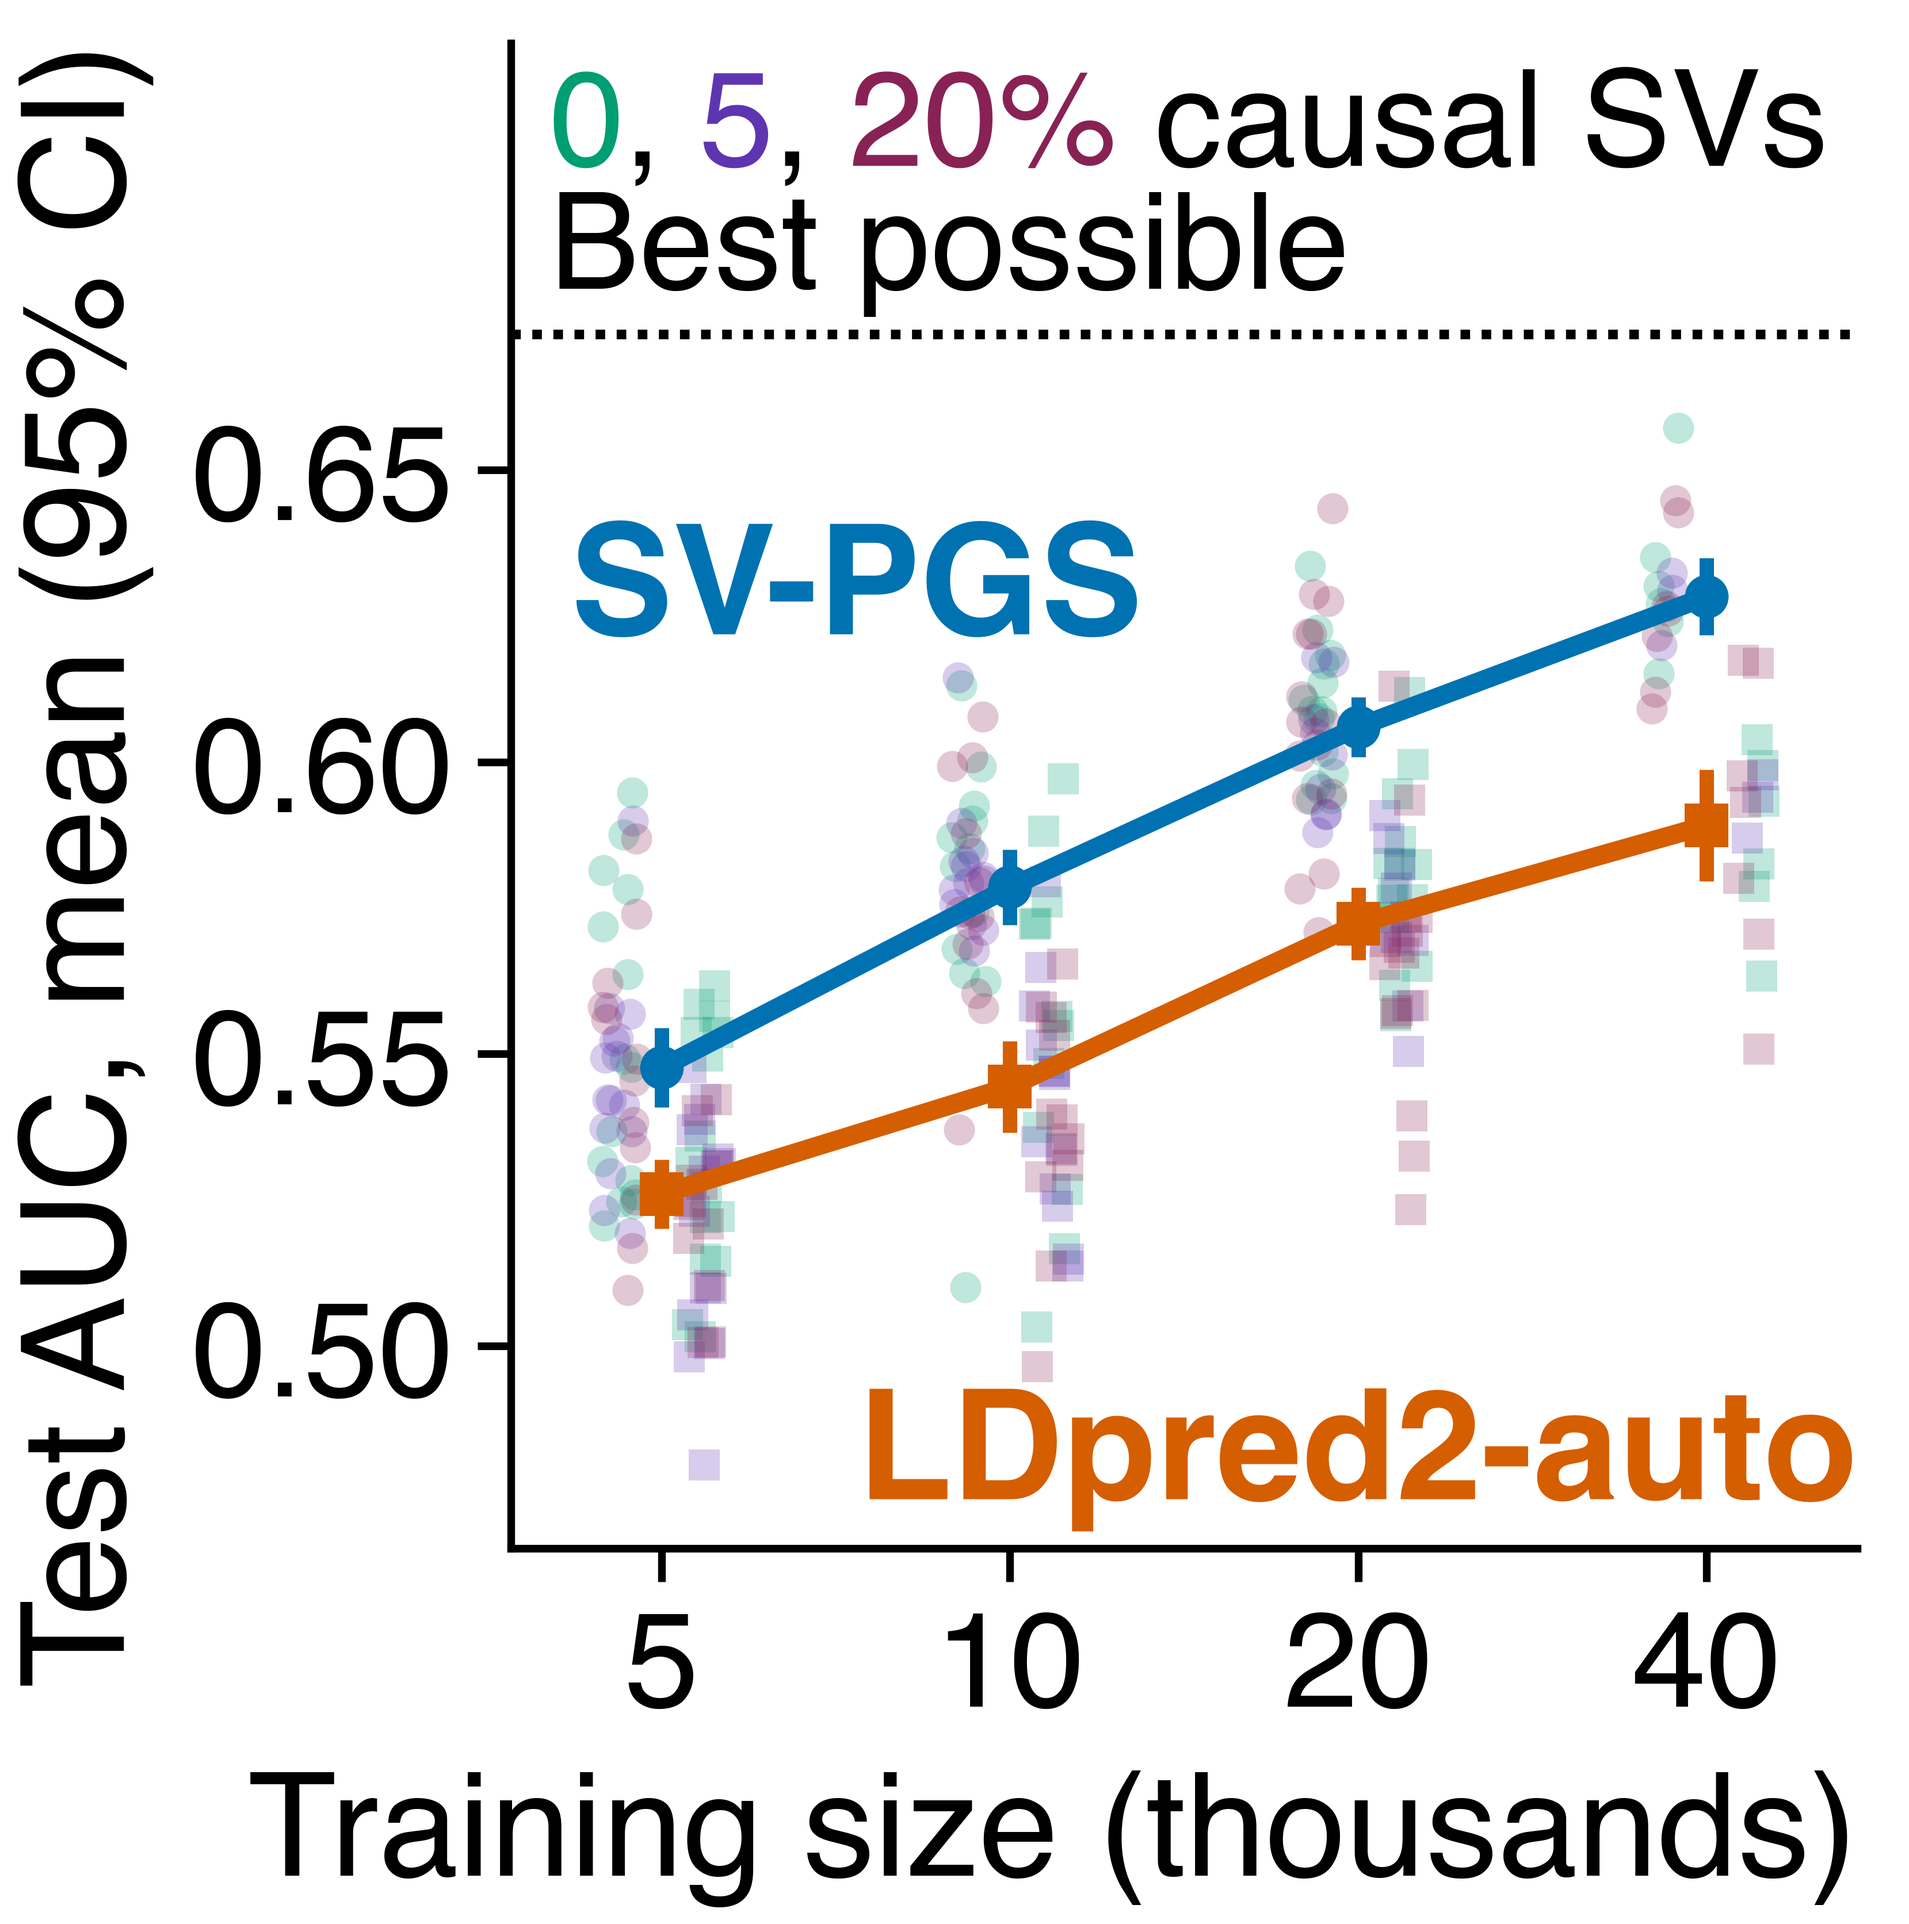
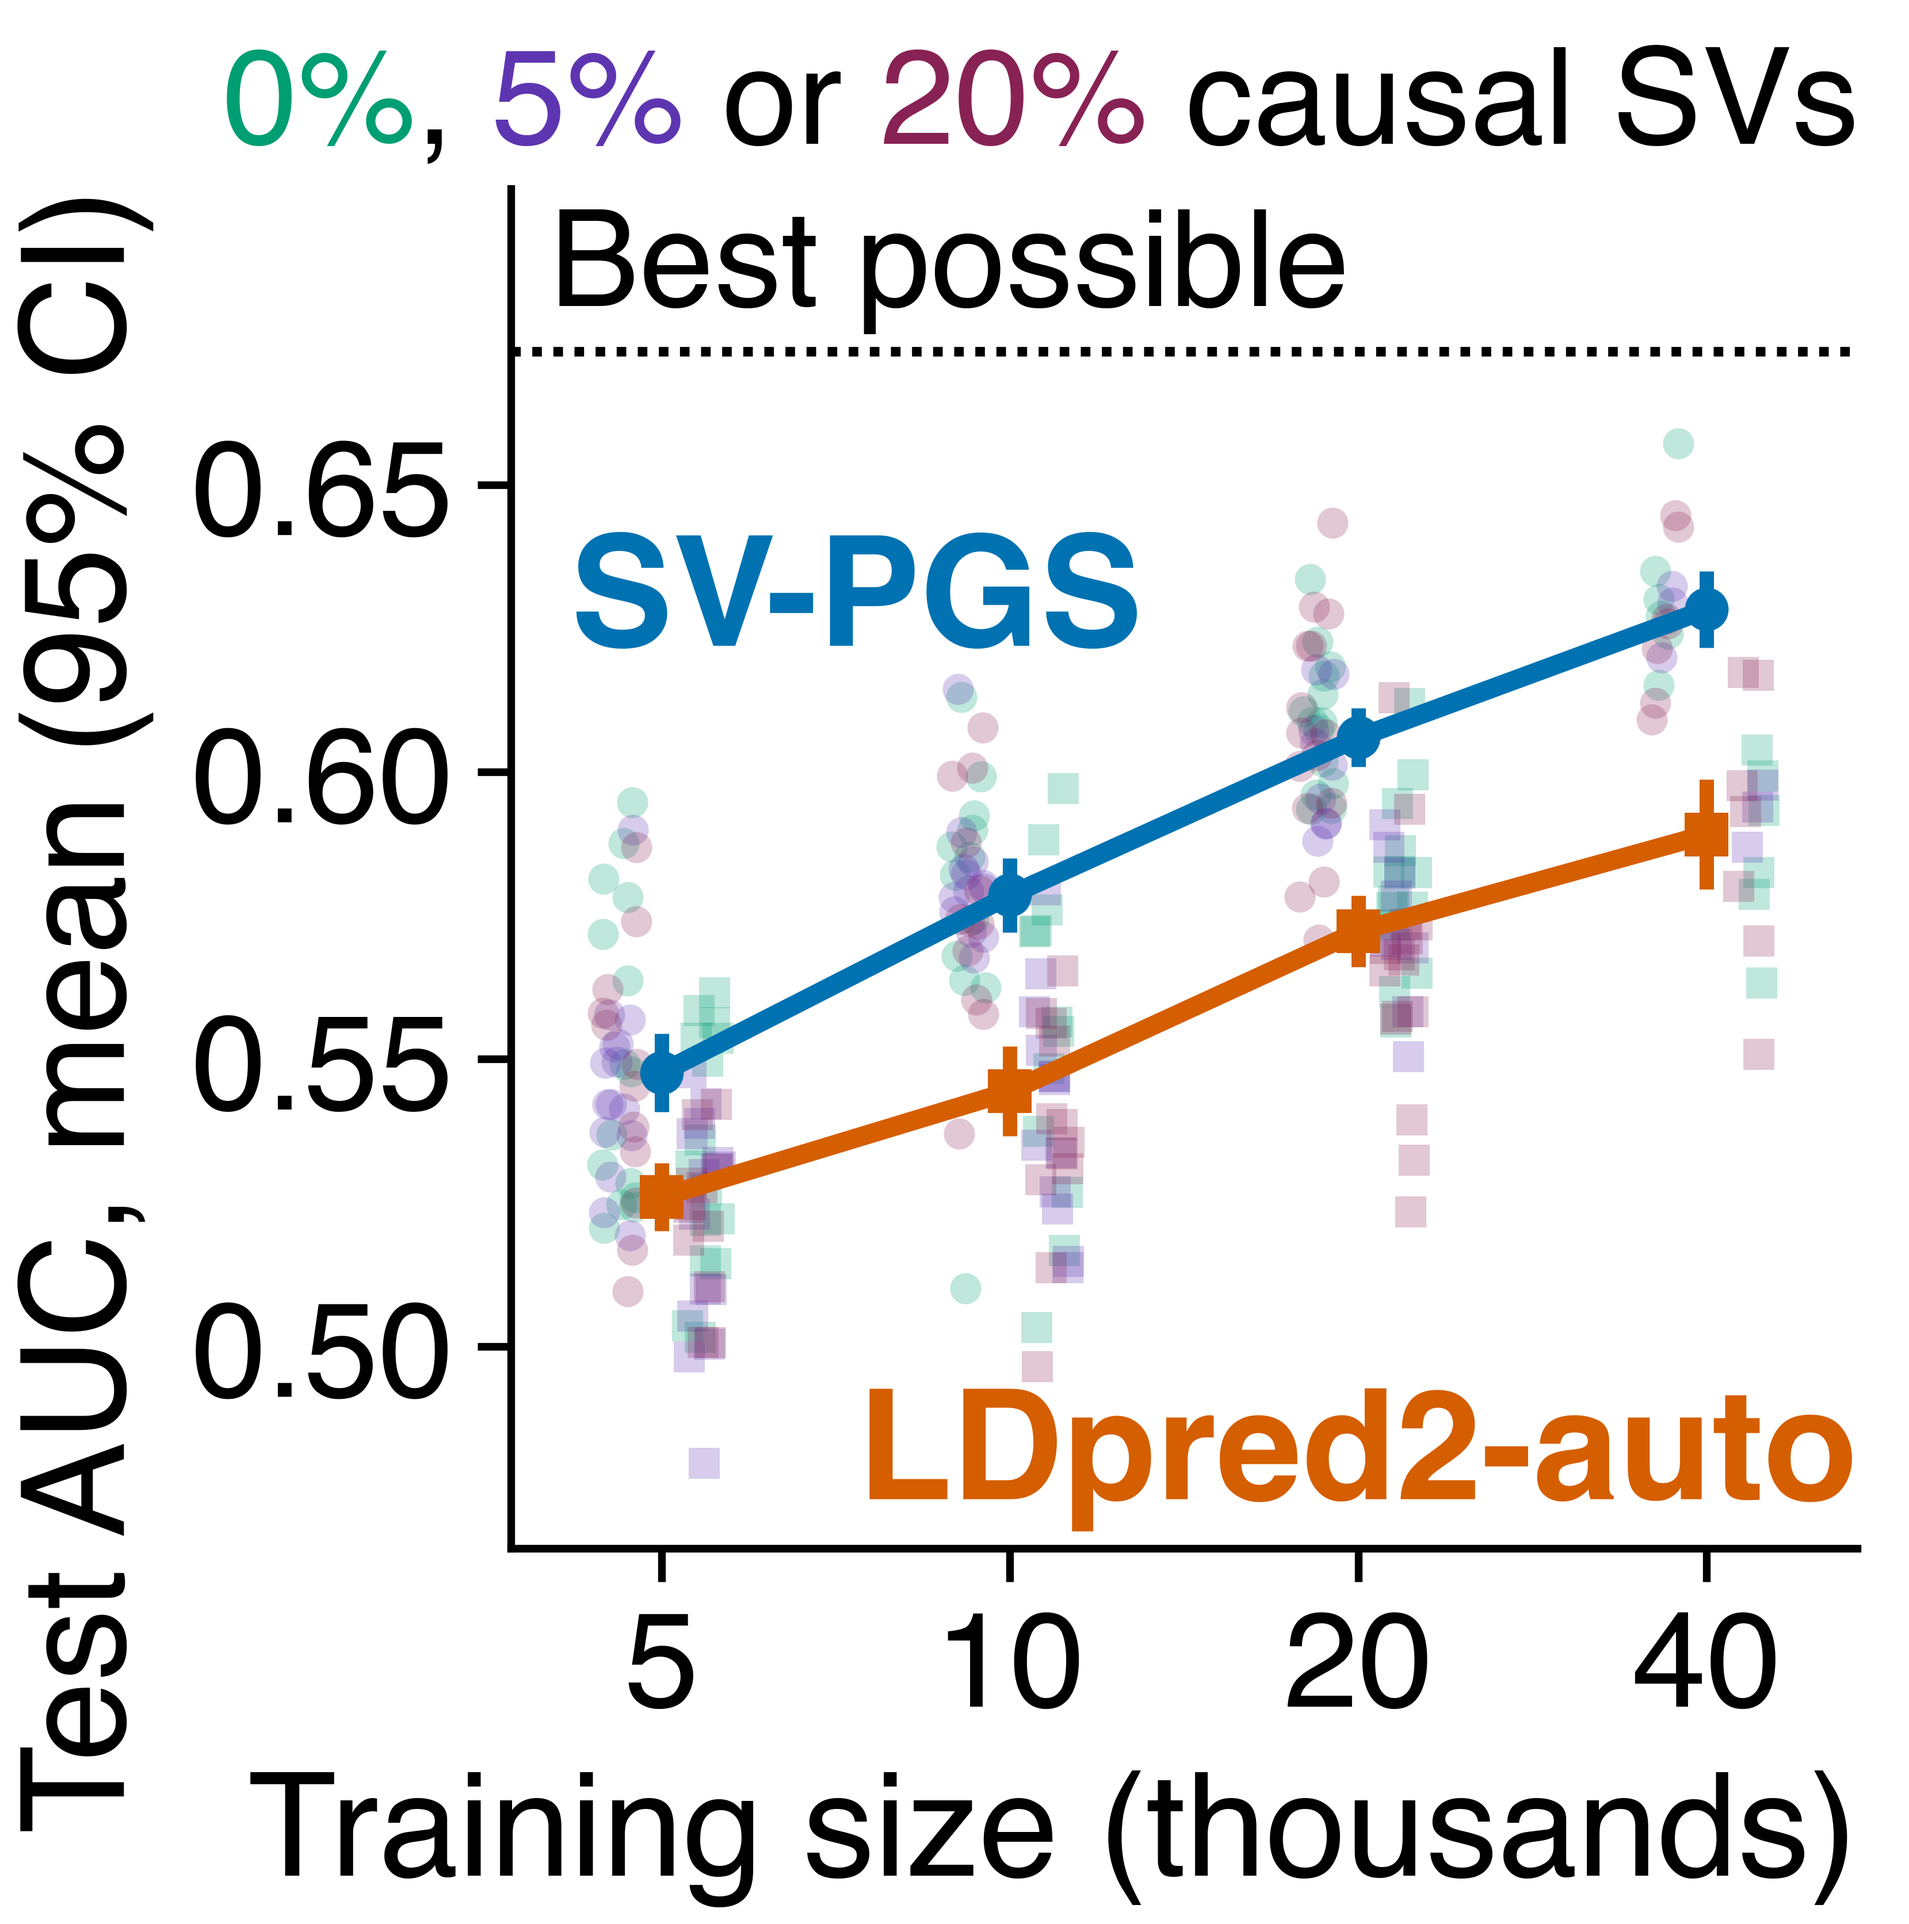
The poster's training-size figure keys its dot colours as "0%, 5% or 20% causal SVs", and the Simulation results section names what each method fits (docs/poster/ashg2026/sim_gallery.py, build_pptx.py).
The key read "0, 5, 20% causal SVs". The full wording is 9.47 in at tick size and the plot is 7.58 in wide, so the key is now one line in the figure's top margin, ending at the plot's right edge. The plot above the best possible AUC keeps only that label, so its data range keeps its height. The Introduction is two bullets: "Polygenic scores rarely use SVs" and "We test if imputed SVs improve accuracy". The lines "SV-PGS: all SNVs, indels and SVs" and "LDpred2-auto: up to 16,000 SNVs with MAF ≥ 1%" move from Simulation design to under the Simulation results note. Simulation design now reads "17 architectures: h² 0.01 or 0.1, prevalence 1% or 10%" and "50, 200 or 2,000 causal variants, of which 0%, 5% or 20% are SVs". Tests (laptop): test_poster_figures and test_poster_simulation, 13 passed.

diff --git a/docs/poster/ashg2026/sim_gallery.py b/docs/poster/ashg2026/sim_gallery.py
@@ -828,7 +828,7 @@ POSTER_PAD = 0.1
 """Inches between a poster figure's outermost type and its canvas's edge, and between a name and the marks beside it."""
 POSTER_X_TITLES = ("Training size (thousands)", "LDpred2-auto test AUC")
 """The x axes' titles of the two figures side by side at the top of the poster's middle column."""
-POSTER_SHARES = (("null", "0", GREEN), ("sv_5pct", "5", VIOLET), ("sv_20pct", "20%", WINE))
+POSTER_SHARES = (("null", "0%", GREEN), ("sv_5pct", "5%", VIOLET), ("sv_20pct", "20%", WINE))
 """The accuracy figure's architectures by the share of causal variants that are SVs, as its key writes each, and the
 colour of their simulations' dots."""
 POSTER_METHODS = (("with_sv_auc", "SV-PGS", SV_PGS, "o", -1), ("ldpred2_auc", "LDpred2-auto", LDPRED2, "s", 1))
@@ -852,17 +852,30 @@ def poster_accuracy_figure(grids, summary):
     """Figure 1a for the poster: test AUC against training size for SV-PGS (circles) and LDpred2-auto (squares), pooled
     over the architectures with 0%, 5% and 20% causal SVs. Each mean has its 95% interval as an error bar, over every
     simulation's own AUC as a faint dot in its architecture's colour, left of its size for SV-PGS and right for
-    LDpred2-auto. Each method is named beside its marks, under the AUC of the true genetic value and the colours' key.
-    The y axis spans every mark with room for the names and the key, measured from their type."""
+    LDpred2-auto. Each method is named beside its marks, under the AUC of the true genetic value. The colours' key,
+    "0%, 5% or 20% causal SVs", is one line over the plot, ending at its right edge: at tick size it is wider than the
+    plot. The y axis spans every mark with room for the names, measured from their type."""
     grouped = cells(grids["grid"])
     fig = plt.figure(figsize=(POSTER_HALF, POSTER_HEIGHT))
     # the left margin holds the ticks and the axis title
-    top, bottom, left, right = 0.25, under_axes(fig), widest(fig, ["0.00"], fontsize=POSTER_TYPE) + 1.45, 0.3
+    # the key's words, each share in its dots' colour: "0%, 5% or 20% causal SVs"
+    shares = [(label, share) for _, label, share in POSTER_SHARES]
+    key = [shares[0], *((part, tint) for index, (label, share) in enumerate(shares[1:], 1)
+                        for part, tint in ((", " if index < len(shares) - 1 else " or ", INK), (label, share))),
+           (" causal SVs", INK)]
+    line = tallest(fig, ["Best possible"], fontsize=POSTER_TYPE)
+    # the top margin holds the key over the plot
+    top, bottom, left, right = 0.25 + line + POSTER_PAD, under_axes(fig), widest(fig, ["0.00"], fontsize=POSTER_TYPE) + 1.45, 0.3
     width, height = POSTER_HALF - left - right, POSTER_HEIGHT - top - bottom
     ax = frame(fig, left, bottom, width, height)
     log_size_axis(ax)
     # the title runs longer than the axis, so it ends at the axis's far end
     ax.set_xlabel(POSTER_X_TITLES[0], loc="right")
+    across = (left + width - widest(fig, ["".join(words for words, _ in key)], fontsize=POSTER_TYPE)) / POSTER_HALF
+    piece = fig.text(across, 1 - 0.25 / POSTER_HEIGHT, key[0][0], color=key[0][1], va="top", ha="left")
+    for words, color in key[1:]:
+        piece = ax.annotate(words, xy=(1, 0), xycoords=piece, va="bottom", ha="left", color=color,
+                            annotation_clip=False)
     first, last = ax.get_xlim()
     doubling = width / math.log2(last / first)
     random = np.random.default_rng(0)
@@ -887,14 +900,13 @@ def poster_accuracy_figure(grids, summary):
     names = {method: (widest(fig, [method], fontsize=POSTER_NAME, fontweight="bold"),
                       tallest(fig, [method], fontsize=POSTER_NAME, fontweight="bold"))
              for _, method, *_ in POSTER_METHODS}
-    line = tallest(fig, ["Best possible"], fontsize=POSTER_TYPE)
     # SV-PGS's name over the marks it spans from the left, LDpred2-auto's under the marks it spans to the right end
     start = SIZES[0] / 1.2
     spans = {"SV-PGS": (start, start * 2.0 ** (names["SV-PGS"][0] / doubling)),
              "LDpred2-auto": (last / 2.0 ** (names["LDpred2-auto"][0] / doubling), last)}
     beside = {method: marks[(marks[:, 0] >= low) & (marks[:, 0] <= high), 1] for method, (low, high) in spans.items()}
-    # inches over the best possible AUC: its label, then the key, then the pad; under LDpred2-auto's marks: its name
-    above = POSTER_PAD + 2 * line + POSTER_PAD
+    # inches over the best possible AUC: its label and the pad; under LDpred2-auto's marks: its name
+    above = POSTER_PAD + line + POSTER_PAD
     under = POSTER_PAD + names["LDpred2-auto"][1] + POSTER_PAD
     span = max((ceiling - beside["LDpred2-auto"].min()) / (1 - (above + under) / height),
                (ceiling - marks[:, 1].min()) / (1 - (above + POSTER_PAD) / height))
@@ -903,12 +915,6 @@ def poster_accuracy_figure(grids, summary):
     ax.set_ylim(upper - span, upper)
     ax.axhline(ceiling, color=INK, linestyle=(0, (1, 1.2)), linewidth=4.0, zorder=1)
     ax.text(SIZES[0] / 1.25, ceiling + POSTER_PAD * per_inch, "Best possible", color=INK, va="bottom", ha="left")
-    # the key: each share of causal variants that are SVs in its dots' colour
-    piece = ax.text(SIZES[0] / 1.25, ceiling + (POSTER_PAD + line) * per_inch, POSTER_SHARES[0][1],
-                    color=POSTER_SHARES[0][2], va="bottom", ha="left")
-    for words, color in (*((part, tint) for _, label, share in POSTER_SHARES[1:] for part, tint in ((", ", INK), (label, share))),
-                         (" causal SVs", INK)):
-        piece = ax.annotate(words, xy=(1, 0), xycoords=piece, va="bottom", ha="left", color=color)
     ax.text(start, beside["SV-PGS"].max() + POSTER_PAD * per_inch, "SV-PGS", color=SV_PGS, fontsize=POSTER_NAME,
             fontweight="bold", ha="left", va="bottom")
     ax.text(1, beside["LDpred2-auto"].min() - POSTER_PAD * per_inch, "LDpred2-auto", transform=shifted(ax, 0.0),

diff --git a/docs/poster/ashg2026/build_pptx.py b/docs/poster/ashg2026/build_pptx.py
@@ -141,22 +141,23 @@ def copy(numbers: dict) -> dict:
     return {
         # Byrska-Bishop 2022: "On average, ~9,679 SVs were discovered in each genome"
         "introduction": [f"Each genome has ~9,700 structural variants (SVs){cite('Byrska-Bishop 2022 Cell')}",
-                         "Polygenic scores rarely use SVs, so we test if imputed SVs improve accuracy"],
+                         "Polygenic scores rarely use SVs",
+                         "We test if imputed SVs improve accuracy"],
         "methods": ["Priors depend on imputation r², frequency, SV length"],
         "code": ["Code:", "github.com/", "SauersML/SV-PGS"],
         "design": [
             f"{people(svs['people'])} genomes simulated from 1000 Genomes chr22",
             # each setting's values over the grid's points (DESIGN_SETTINGS), listed rather than as a range
             f"{gain['shown']} architectures: h² {listed([f'{h2:g}' for h2 in DESIGN_SETTINGS['h2']])}, prevalence "
-            f"{listed([f'{share:.0%}' for share in DESIGN_SETTINGS['prevalence']])}, "
-            f"{listed([f'{count:,}' for count in DESIGN_SETTINGS['causal_variants']])} causal variants, "
-            f"{listed([f'{share:.0%}' for share in DESIGN_SETTINGS['sv_causal_fraction']])} SVs",
-            # SV-PGS fits every measured record with no frequency or r² floor (stage2_wiring.fit_models); LDpred2-auto
-            # takes SNVs of training MAF >= 1% thinned evenly in genetic distance to HapMap3's chr22 count, so at most
-            # 16,000 (benchmarks/bench_sim/submissions/ldpred2_auto.py)
-            f"SV-PGS: all SNVs, indels and SVs. LDpred2-auto{cite('Privé 2020 Bioinformatics')}: up to 16,000 SNVs "
-            "with MAF ≥ 1%",
+            f"{listed([f'{share:.0%}' for share in DESIGN_SETTINGS['prevalence']])}",
+            f"{listed([f'{count:,}' for count in DESIGN_SETTINGS['causal_variants']])} causal variants, of which "
+            f"{listed([f'{share:.0%}' for share in DESIGN_SETTINGS['sv_causal_fraction']])} are SVs",
         ],
+        # what each plotted method fits, over the simulation's figures: SV-PGS every measured record with no
+        # frequency or r² floor (stage2_wiring.fit_models), LDpred2-auto SNVs of training MAF >= 1% thinned evenly in
+        # genetic distance to HapMap3's chr22 count, so at most 16,000 (benchmarks/bench_sim/submissions/ldpred2_auto.py)
+        "compared": ["SV-PGS: all SNVs, indels and SVs",
+                     f"LDpred2-auto{cite('Privé 2020 Bioinformatics')}: up to 16,000 SNVs with MAF ≥ 1%"],
         "whole_note": f"Simulations on whole chr22 with test N = {people(accuracy['test_people'])}",
         "gain_note": f"Mean and 95% CI over {simulations} simulations in 3 Mb of chr22",
         # GLIMPSE2 is Rubinacci 2023; the assemblies are the accepted abstract's 12,212 phased genome assemblies
@@ -638,7 +639,7 @@ def build() -> None:
         ],
         [
             bar(118, "Simulation results"),
-            Block("text", [Para([(words["whole_note"], "")], bullet=False, after=0)]),
+            Block("text", [Para([(line, "")], bullet=False, after=0) for line in [words["whole_note"], *words["compared"]]]),
             row([figure(gallery["poster_accuracy_by_training_size"], legend=GALLERY / "fig1_accuracy_by_training_size.txt")],
                 [figure(gallery["poster_wins"], legend=GALLERY / "fig2_gain_over_ldpred2.txt")]),
             Block("text", [Para([(words["gain_note"], "")], bullet=False, after=0)], gap="section"),

diff --git a/tests/test_poster_simulation.py b/tests/test_poster_simulation.py
@@ -140,17 +140,18 @@ def test_poster_design_lists_each_setting_value_the_grid_simulates(monkeypatch, 
         "sv_causal_fraction": {point["sv_causal_fraction"] for point in grid.POINTS.values()},
     }
     assert {name: set(values) for name, values in poster.DESIGN_SETTINGS.items()} == simulated
-    line = poster_copy(poster)["design"][1]
+    line = " ".join(poster_copy(poster)["design"][1:3])
     # each value is named and none is given as a range
     assert "–" not in line
     assert "h² 0.01 or 0.1" in line and "prevalence 1% or 10%" in line
-    assert "50, 200 or 2,000 causal variants" in line and "0%, 5% or 20% SVs" in line
+    assert "50, 200 or 2,000 causal variants" in line and "0%, 5% or 20% are SVs" in line
 
 
 def test_poster_cites_every_reference_in_order(monkeypatch, tmp_path):
     poster = poster_module(monkeypatch, tmp_path)
     words = poster_copy(poster)
-    text = " ".join(line for key in ("introduction", "methods", "design", "aou", "discussion") for line in words[key])
+    text = " ".join(line for key in ("introduction", "methods", "design", "compared", "aou", "discussion")
+                    for line in words[key])
     # h² and r² are exponents, not citations
     text = re.sub(r"[hr]²", "", text)
     marks = [poster.SUPERSCRIPT[index] for index in range(1, len(poster.REFERENCES) + 1)]
